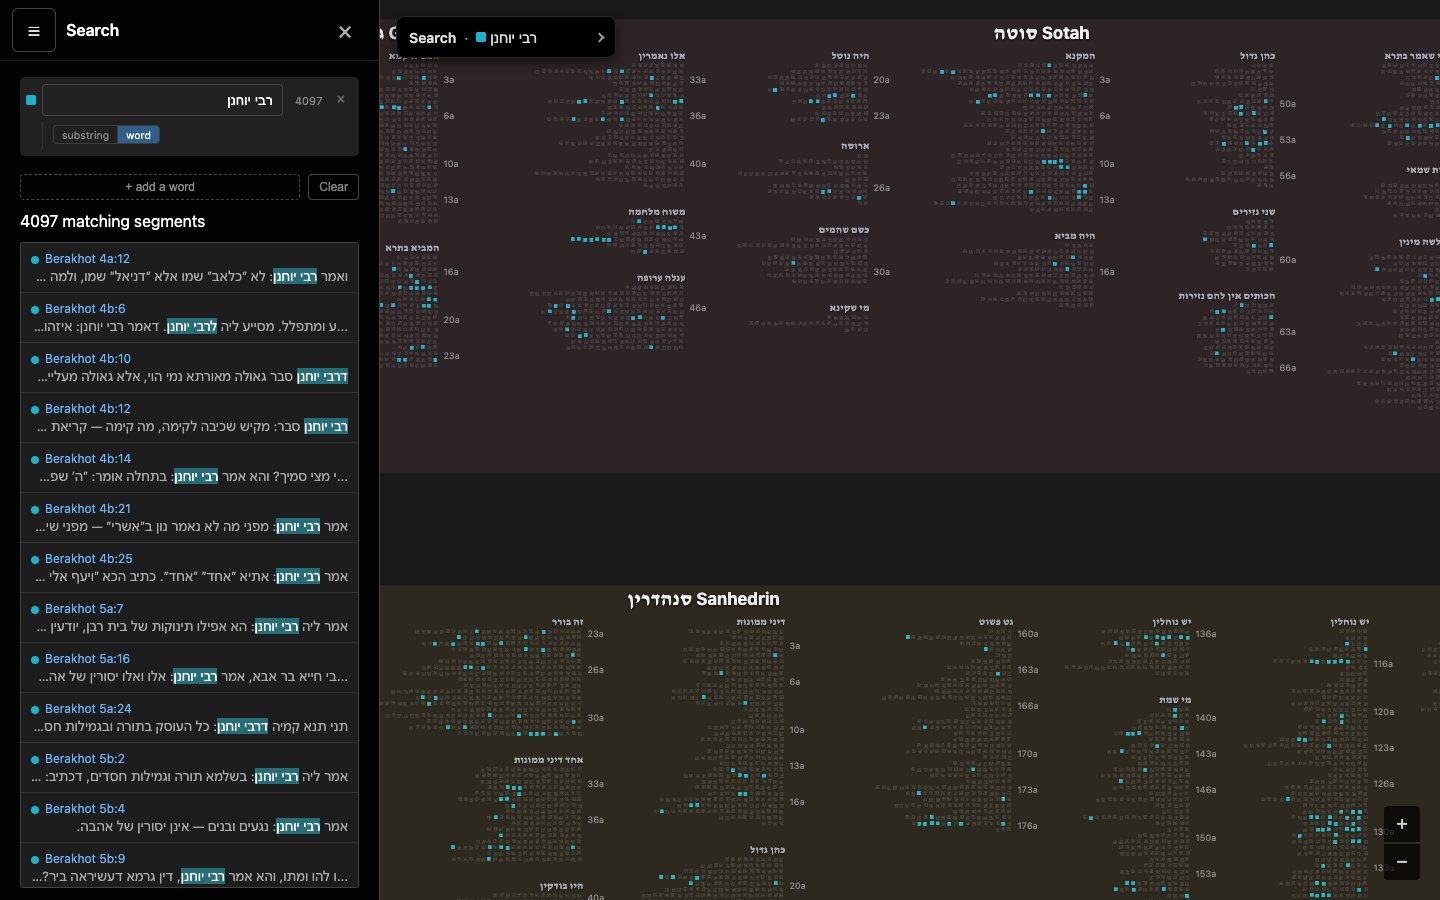
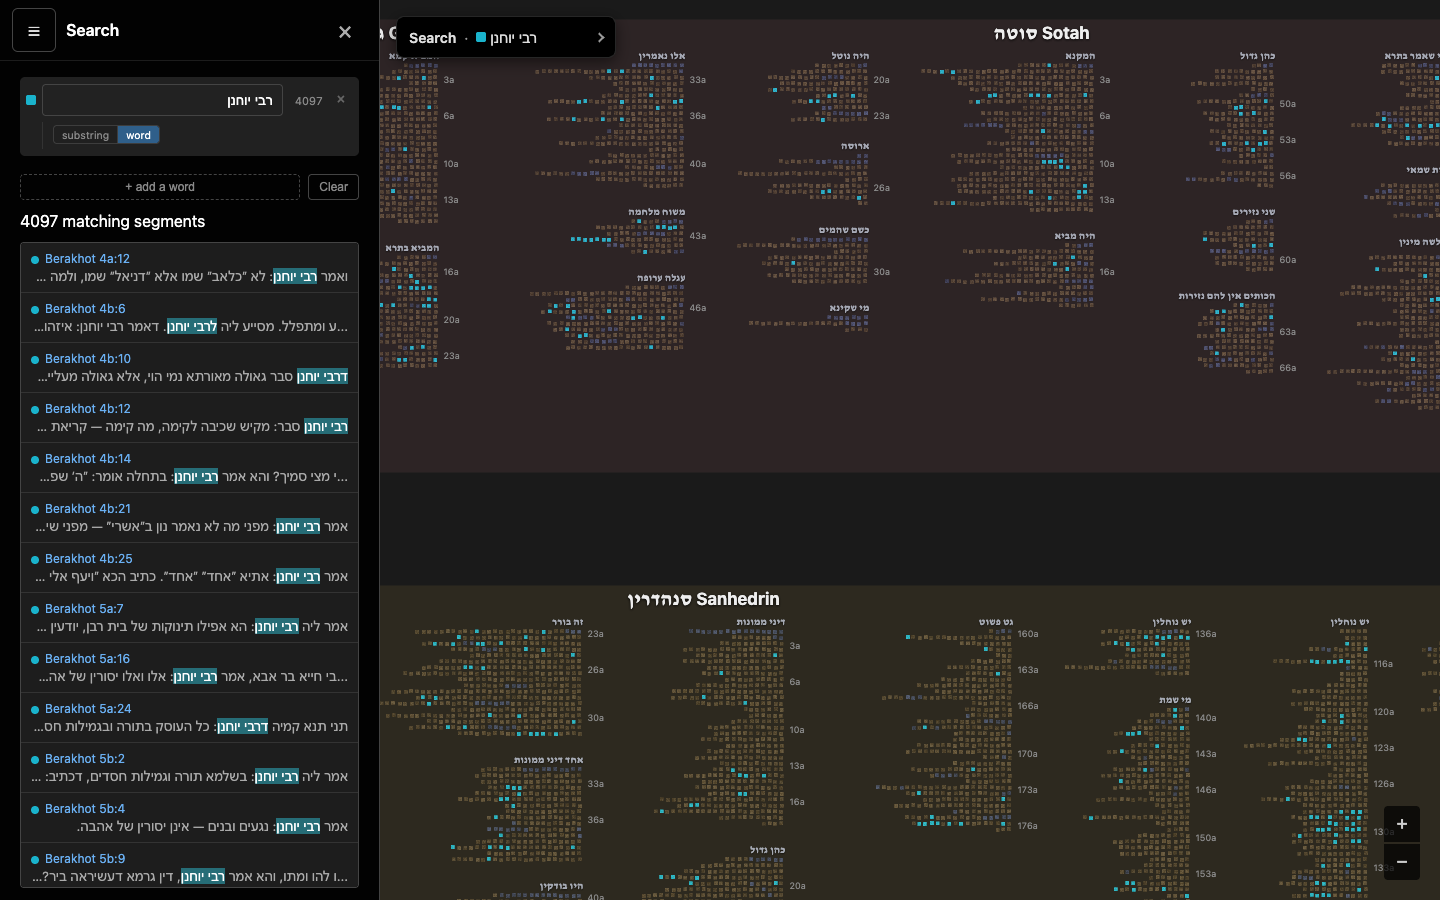
A Talmud search keeps Mishnah and Gemara in its unmatched segments
Search alone painted every segment it did not find grey, which hid the
Mishnah/Gemara split the Talmud's base colours draw. A text can now ask
for its base colour, dimmed, instead (searchKeepsBase); the Talmud does,
the Tanakh keeps its grey.

Claude-Session: https://claude.ai/code/session_01ArtaZH2sTcSMsYf17nN4Zz

diff --git a/packages/shell/src/itemColoring.ts b/packages/shell/src/itemColoring.ts
@@ -30,7 +30,8 @@ function brightenBands(color: ItemColor, factor: number): ItemColor {
  * layers are on: `SEARCH_NON_MATCH_DIM` (the default) while
  * search leads, 1 while the overlay leads; it does nothing with search alone,
  * which always dims to its own grey. With both on, a square neither colours
- * dims from its `base` colour.
+ * dims from its `base` colour. With search alone, a square it does not find
+ * is `unfound`'s colour (unfoundColor).
  */
 export function combineLayers(
   count: number,
@@ -38,6 +39,7 @@ export function combineLayers(
   overlay: readonly (ItemColor | null)[] | null,
   base: (index: number) => ItemColor,
   nonMatchDim: number = SEARCH_NON_MATCH_DIM,
+  unfound: (index: number) => ItemColor = () => DIMMED_GREY,
 ): Picture<ItemColor | null> {
   const colors: (ItemColor | null)[] = new Array(count);
   const rings: (ItemColor | null)[] = new Array(count).fill(null);
@@ -48,7 +50,7 @@ export function combineLayers(
     if (!search) {
       colors[i] = under;
     } else if (!overlay) {
-      colors[i] = match ?? DIMMED_GREY;
+      colors[i] = match ?? unfound(i);
     } else if (match) {
       colors[i] = under;
       rings[i] = match;
@@ -87,13 +89,14 @@ export function overlayColorsFor<T, S, D>(
   return overlay ? overlay.colorsFor(items, settings, hovered, data) : items.map(() => null);
 }
 
-/** The map's colours for the tools a view shows. `base` and `nonMatchDim` pass through to combineLayers. */
+/** The map's colours for the tools a view shows. The colour arguments pass through to combineLayers. */
 export function toolsPicture<T>(
   tools: Tools<T>,
   items: SpatialItem<T>[],
   hovered: SpatialItem<T> | null,
   base: (index: number) => ItemColor,
   nonMatchDim?: number,
+  unfound?: (index: number) => ItemColor,
 ): Picture<ItemColor | null> {
   const colorsOf = (on: ToolOnMap<T> | null) =>
     on && overlayColorsFor(on.tool, items, on.settings, hovered, on.data);
@@ -103,7 +106,16 @@ export function toolsPicture<T>(
     colorsOf(tools.overlay),
     base,
     nonMatchDim,
+    unfound,
   );
+}
+
+/** What search alone draws a square it does not find as: grey, or its own colour dimmed when `keepsBase`. */
+export function unfoundColor(
+  base: (index: number) => ItemColor,
+  keepsBase: boolean,
+): (index: number) => ItemColor {
+  return keepsBase ? (i) => brightenBands(base(i), SEARCH_NON_MATCH_DIM) : () => DIMMED_GREY;
 }
 
 /**

diff --git a/packages/shell/src/main.ts b/packages/shell/src/main.ts
@@ -80,7 +80,7 @@ import { tabTitle } from './tabTitle.ts';
 import { linkForScreen, pushes } from './linkForScreen.ts';
 import { getSidebarElements, updateSidebar } from './sidebar.ts';
 import { createMapGestures, escapeDoes, tapDoes } from './mapGestures.ts';
-import { toolsPicture, layerToRecompute, fillDefaultColors } from './itemColoring.ts';
+import { toolsPicture, layerToRecompute, fillDefaultColors, unfoundColor } from './itemColoring.ts';
 import { createOverlaySettings } from './overlays/settings.ts';
 import { NO_OVERLAY, type Overlay, type Tools } from './overlays/types.ts';
 import { prebuildCompleted } from './overlays/prebuild.ts';
@@ -204,6 +204,7 @@ export async function createApp<I extends MapItem, S>(source: MapText<I, S>): Pr
   const squares = indexItems(items);
   const baseColors = items.map((item, i) => text.baseColor(item, i));
   const base = (i: number): ItemColor => baseColors[i];
+  const unfound = unfoundColor(base, text.searchKeepsBase ?? false);
   // A picture with its holes filled with each square's base colour.
   const fill = (picture: Picture<ItemColor | null>): Picture<ItemColor> =>
     fillDefaultColors(picture, base);
@@ -351,7 +352,7 @@ export async function createApp<I extends MapItem, S>(source: MapText<I, S>): Pr
 
   /** The map exploring shows: the tools as they stand, the front one in front. */
   function explorePicture(): Picture<ItemColor | null> {
-    return toolsPicture(toolsNow(), items, hoveredItem, base, dimFor(frontTool));
+    return toolsPicture(toolsNow(), items, hoveredItem, base, dimFor(frontTool), unfound);
   }
 
   function applyTools(): void {
@@ -414,7 +415,7 @@ export async function createApp<I extends MapItem, S>(source: MapText<I, S>): Pr
   function blendColors(): ColorLayer | null {
     if (driver.by !== 'story' || !driver.blend) return null;
     const { from, to, t } = driver.blend;
-    return computeBlendedColors(from, to, t, items, hoveredItem, loaded, base, textTools);
+    return computeBlendedColors(from, to, t, items, hoveredItem, loaded, base, textTools, unfound);
   }
 
   function blendTransition(): void {
@@ -1401,6 +1402,7 @@ export async function createApp<I extends MapItem, S>(source: MapText<I, S>): Pr
         loaded,
         base,
         textTools,
+        unfound,
       ),
     );
   }

diff --git a/packages/shell/src/scrollytelling/overlayBlender.ts b/packages/shell/src/scrollytelling/overlayBlender.ts
@@ -76,6 +76,7 @@ export function pictureForStop<I extends MapItem>(
   loaded: Loaded,
   base: (index: number) => ItemColor,
   tools: TextTools<I>,
+  unfound?: (index: number) => ItemColor,
 ): Picture {
   const { search } = tools;
   const overlay = overlayOf(stop, tools);
@@ -102,7 +103,10 @@ export function pictureForStop<I extends MapItem>(
     settingsFromLink(search, stop.searchParams ?? {}),
     loaded,
   );
-  const picture = fillDefaultColors(toolsPicture(shown, items, hovered, base), base);
+  const picture = fillDefaultColors(
+    toolsPicture(shown, items, hovered, base, undefined, unfound),
+    base,
+  );
   if (!byHover) cache.set(key, picture);
   return picture;
 }
@@ -119,13 +123,14 @@ export function computeBlendedColors<I extends MapItem>(
   loaded: Loaded,
   base: (index: number) => ItemColor,
   tools: TextTools<I>,
+  unfound?: (index: number) => ItemColor,
 ): ColorLayer {
   if (fromStop === toStop || t === 0)
-    return still(pictureForStop(fromStop, items, hovered, loaded, base, tools));
-  if (t >= 1) return still(pictureForStop(toStop, items, hovered, loaded, base, tools));
+    return still(pictureForStop(fromStop, items, hovered, loaded, base, tools, unfound));
+  if (t >= 1) return still(pictureForStop(toStop, items, hovered, loaded, base, tools, unfound));
   return {
-    from: pictureForStop(fromStop, items, hovered, loaded, base, tools),
-    to: pictureForStop(toStop, items, hovered, loaded, base, tools),
+    from: pictureForStop(fromStop, items, hovered, loaded, base, tools, unfound),
+    to: pictureForStop(toStop, items, hovered, loaded, base, tools, unfound),
     t,
   };
 }

diff --git a/test/combineLayers.test.ts b/test/combineLayers.test.ts
@@ -5,6 +5,7 @@ import {
   fillDefaultColors,
   getDefaultColor,
   toolsPicture,
+  unfoundColor,
 } from '../packages/shell/src/itemColoring.ts';
 import { DIMMED_GREY, SEARCH_NON_MATCH_DIM } from '../packages/shell/src/constants.ts';
 import { createVerse, testOverlay } from '../apps/tanakh/test/helpers/fixtures.ts';
@@ -40,6 +41,14 @@ describe('combineLayers', () => {
         ALONE,
         ALONE,
         ALONE,
+      ]);
+    });
+
+    it('dims a square it does not match to the colour the text gives one', () => {
+      const unfound = (i: number): Color => (i === 0 ? RED : BLUE);
+      expect(combineLayers(2, [null, CYAN], null, getDefaultColor, DIM, unfound).colors).toEqual([
+        RED,
+        CYAN,
       ]);
     });
 
@@ -191,5 +200,15 @@ describe('toolsPicture', () => {
     );
 
     expect(picture.colors).toEqual([RED]);
+  });
+});
+
+describe('unfoundColor', () => {
+  it('is grey unless the text keeps its base colour', () => {
+    expect(unfoundColor(() => BLUE, false)(0)).toEqual(DIMMED_GREY);
+  });
+
+  it("dims the text's base colour when it keeps it", () => {
+    expect(unfoundColor(() => BLUE, true)(0)).toEqual(scaled(BLUE, DIM));
   });
 });

diff --git a/packages/shell/src/app/text.ts b/packages/shell/src/app/text.ts
@@ -50,6 +50,8 @@ export interface OpenText<I extends MapItem, S = unknown> {
   startCamera(viewport: Viewport): Camera;
   /** A square's colour while no tool colours it. */
   baseColor(item: I, index: number): ItemColor;
+  /** Whether a search dims the squares it does not find to their base colour rather than grey. */
+  searchKeepsBase?: boolean;
   /** Draws the labels into `container`; the function returned moves them with the map. */
   labels(container: HTMLElement): (offset: ScreenPoint, zoom: number) => void;
   /** The file a square's text is in. The shell downloads it when the square's popup first shows. */

diff --git a/apps/talmud/src/text.ts b/apps/talmud/src/text.ts
@@ -88,6 +88,7 @@ export const talmudText: MapText<TalmudLayoutItem, TermSettings> = {
       },
 
       baseColor: (item) => mishnahOrGemaraColor(structure, item),
+      searchKeepsBase: true,
 
       labels(container) {
         const moveMarks = createTalmudLabels(
